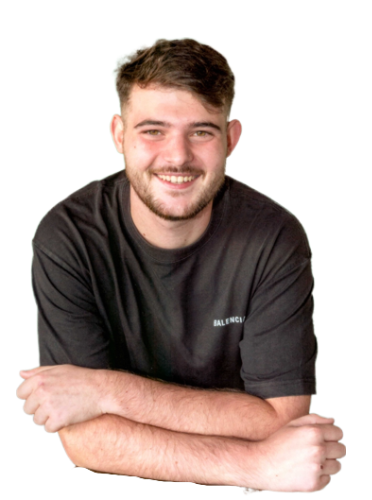
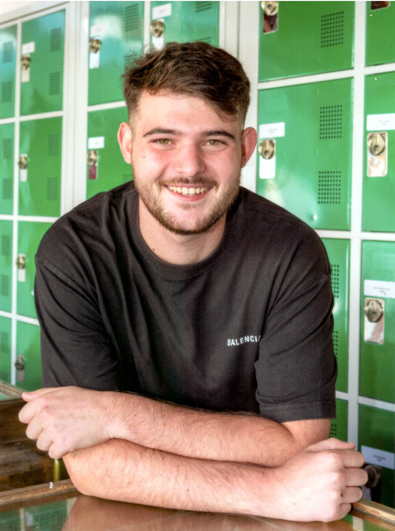
fix: all compenents

diff --git a/src/compenents/timeline/Timeline.vue b/src/compenents/timeline/Timeline.vue
@@ -1,52 +1,101 @@
 <template>
+  <section id="studies" class="dark:bg-slate-900 text-white">
+    <div
+        class="mx-auto max-w-screen-xl px-4 py-8 sm:py-12 sm:px-6 lg:py-16 lg:px-8"
+    >
+      <div class="mx-auto max-w-lg text-center">
+        <h2 class="text-3xl font-bold sm:text-4xl">Studies</h2>
 
-  <ol id="timeline" class="flex items-center justify-center px-6 sm:px-16 pb-40 pt-20 lg:pb-64 lg:pt-32 flex-col lg:flex-row bg-gray-900">
-    <li class="w-full lg:w-auto relative mb-6 lg:mb-0">
-      <div class="flex items-center">
-        <div class="z-10 flex items-center justify-center w-6 h-6 bg-blue-100 rounded-full ring-0 ring-white dark:bg-blue-900 lg:ring-8 dark:ring-gray-900 shrink-0">
+        <p class="mt-4 text-gray-300">
+          On this page, I provide a detailed overview of my educational journey,
+          highlighting the various stages and institutions I attended.
+        </p>
+      </div>
+
+      <div class="mt-8 grid grid-cols-1 gap-8 md:grid-cols-2 lg:grid-cols-3">
+        <div
+            v-for="school in schools "
+            :key="school.name">
+
+        <a
+            class="block rounded-xl border border-gray-800 p-8 shadow-xl transition hover:border-pink-500/10 hover:shadow-pink-500/10"
+            :href="school.url" target="_blank"
+        >
+          <div class="flex justify-end"
+            v-if="school.status !=='Finished' ">
+            <span class="inline-flex items-end gap-1.5 py-1.5 px-3 rounded-full text-xs font-medium bg-yellow-400 text-white">{{school.status}}</span>
+
+          </div>
+          <div class="flex justify-end"
+              v-else>
+            <span class="inline-flex items-end gap-1.5 py-1.5 px-3 rounded-full text-xs font-medium bg-green-400 text-white">{{school.status}}</span>
+          </div>
+
+
           <svg
-              class="w-3.5 h-3.5 text-blue-800 dark:text-blue-300"
-              fill="currentColor" xmlns="http://www.w3.org/2000/svg" viewBox="0 0 640 512">
-            <path d="M320 32c-8.1 0-16.1 1.4-23.7 4.1L15.8 137.4C6.3 140.9 0 149.9 0 160s6.3 19.1 15.8 22.6l57.9 20.9C57.3 229.3 48 259.8 48 291.9v28.1c0 28.4-10.8 57.7-22.3 80.8c-6.5 13-13.9 25.8-22.5 37.6C0 442.7-.9 448.3 .9 453.4s6 8.9 11.2 10.2l64 16c4.2 1.1 8.7 .3 12.4-2s6.3-6.1 7.1-10.4c8.6-42.8 4.3-81.2-2.1-108.7C90.3 344.3 86 329.8 80 316.5V291.9c0-30.2 10.2-58.7 27.9-81.5c12.9-15.5 29.6-28 49.2-35.7l157-61.7c8.2-3.2 17.5 .8 20.7 9s-.8 17.5-9 20.7l-157 61.7c-12.4 4.9-23.3 12.4-32.2 21.6l159.6 57.6c7.6 2.7 15.6 4.1 23.7 4.1s16.1-1.4 23.7-4.1L624.2 182.6c9.5-3.4 15.8-12.5 15.8-22.6s-6.3-19.1-15.8-22.6L343.7 36.1C336.1 33.4 328.1 32 320 32zM128 408c0 35.3 86 72 192 72s192-36.7 192-72L496.7 262.6 354.5 314c-11.1 4-22.8 6-34.5 6s-23.5-2-34.5-6L143.3 262.6 128 408z"/></svg>
-        </div>
-        <div class="hidden lg:flex w-full bg-gray-200 h-0.5 dark:bg-gray-700"></div>
-      </div>
-      <div class="mt-3 lg:pr-8">
-        <h3 class="text-lg font-semibold text-gray-900 dark:text-white">Flowbite Library v1.0.0</h3>
-        <time class="block mb-2 text-sm font-normal leading-none text-gray-400 dark:text-gray-500">Released on December 2, 2021</time>
-        <p class="text-base font-normal text-gray-500 dark:text-gray-400">Get started with dozens of web components and interactive elements.</p>
-      </div>
-    </li>
-    <li class="w-full lg:w-auto relative mb-6 lg:mb-0">
-      <div class="flex items-center">
-        <div class="z-10 flex items-center justify-center w-6 h-6 bg-blue-100 rounded-full ring-0 ring-white dark:bg-blue-900 lg:ring-8 dark:ring-gray-900 shrink-0">
-          <svg class="w-2.5 h-2.5 text-blue-800 dark:text-blue-300" aria-hidden="true" xmlns="http://www.w3.org/2000/svg" fill="currentColor" viewBox="0 0 20 20">
-            <path d="M20 4a2 2 0 0 0-2-2h-2V1a1 1 0 0 0-2 0v1h-3V1a1 1 0 0 0-2 0v1H6V1a1 1 0 0 0-2 0v1H2a2 2 0 0 0-2 2v2h20V4ZM0 18a2 2 0 0 0 2 2h16a2 2 0 0 0 2-2V8H0v10Zm5-8h10a1 1 0 0 1 0 2H5a1 1 0 0 1 0-2Z"/>
+              xmlns="http://www.w3.org/2000/svg"
+              class="h-10 w-10 text-pink-500"
+              fill="none"
+              viewBox="0 0 24 24"
+              stroke="currentColor"
+          >
+            <path d="M12 14l9-5-9-5-9 5 9 5z" />
+            <path
+                d="M12 14l6.16-3.422a12.083 12.083 0 01.665 6.479A11.952 11.952 0 0012 20.055a11.952 11.952 0 00-6.824-2.998 12.078 12.078 0 01.665-6.479L12 14z"
+            />
+            <path
+                stroke-linecap="round"
+                stroke-linejoin="round"
+                stroke-width="2"
+                d="M12 14l9-5-9-5-9 5 9 5zm0 0l6.16-3.422a12.083 12.083 0 01.665 6.479A11.952 11.952 0 0012 20.055a11.952 11.952 0 00-6.824-2.998 12.078 12.078 0 01.665-6.479L12 14zm-4 6v-7.5l4-2.222"
+            />
           </svg>
+
+          <h2 class="mt-4 text-xl font-bold text-white">{{school.name}}</h2>
+          <p class="mt-1 text-lg text-gray-300">
+            {{school.localisation}}
+
+          </p>
+
+          <p class="mt-1 text-sm text-gray-300">
+            {{school.date}}
+            {{school.description }}
+          </p>
+        </a>
         </div>
-        <div class="hidden lg:flex w-full bg-gray-200 h-0.5 dark:bg-gray-700"></div>
       </div>
-      <div class="mt-3 lg:pr-8">
-        <h3 class="text-lg font-semibold text-gray-900 dark:text-white">Flowbite Library v1.2.0</h3>
-        <time class="block mb-2 text-sm font-normal leading-none text-gray-400 dark:text-gray-500">Released on December 23, 2021</time>
-        <p class="text-base font-normal text-gray-500 dark:text-gray-400">Get started with dozens of web components and interactive elements.</p>
-      </div>
-    </li>
-    <li class="w-full lg:w-auto relative mb-6 lg:mb-0">
-      <div class="flex items-center">
-        <div class="z-10 flex items-center justify-center w-6 h-6 bg-blue-100 rounded-full ring-0 ring-white dark:bg-blue-900 lg:ring-8 dark:ring-gray-900 shrink-0">
-          <svg class="w-2.5 h-2.5 text-blue-800 dark:text-blue-300" aria-hidden="true" xmlns="http://www.w3.org/2000/svg" fill="currentColor" viewBox="0 0 20 20">
-            <path d="M20 4a2 2 0 0 0-2-2h-2V1a1 1 0 0 0-2 0v1h-3V1a1 1 0 0 0-2 0v1H6V1a1 1 0 0 0-2 0v1H2a2 2 0 0 0-2 2v2h20V4ZM0 18a2 2 0 0 0 2 2h16a2 2 0 0 0 2-2V8H0v10Zm5-8h10a1 1 0 0 1 0 2H5a1 1 0 0 1 0-2Z"/>
-          </svg>
-        </div>
-        <div class="hidden lg:flex w-full bg-gray-200 h-0.5 dark:bg-gray-700"></div>
-      </div>
-      <div class="mt-3 lg:pr-8">
-        <h3 class="text-lg font-semibold text-gray-900 dark:text-white">Flowbite Library v1.3.0</h3>
-        <time class="block mb-2 text-sm font-normal leading-none text-gray-400 dark:text-gray-500">Released on January 5, 2022</time>
-        <p class="text-base font-normal text-gray-500 dark:text-gray-400">Get started with dozens of web components and interactive elements.</p>
-      </div>
-    </li>
-  </ol>
+    </div>
+  </section>
 
 </template>
+
+<script lang="ts" setup>
+
+const schools = [
+
+  {
+    name: 'Epitech',
+    localisation:'Rennes',
+    date: "2023-2026",
+    description: "MSc Pro",
+    url:"https://www.epitech.eu/",
+    status:"In progess",
+  },
+  {
+    name: 'Lycée Saint Joseph',
+    localisation:'Hasparren',
+    date: "2021-2023",
+    description: "BTS-SNIR",
+    url:"https://st-joseph-hasparren.fr/",
+    status:"Finished",
+  },
+  {
+    name: 'Lycée André Malraux',
+    localisation:'Biarritz',
+    date: "2017-2020",
+    description: "BAC S",
+    url:"https://lycee-malraux-biarritz.fr/",
+    status:"Finished",
+  },
+    ]
+</script>

diff --git a/src/compenents/footer/Footer.vue b/src/compenents/footer/Footer.vue
@@ -9,24 +9,9 @@
         <!-- End Col -->
 
         <ul class="text-center">
-          <li class="inline-block relative pr-8 last:pr-0 last-of-type:before:hidden before:absolute before:top-1/2 before:right-3 before:-translate-y-1/2 before:content-['/'] before:text-gray-300 dark:before:text-gray-600">
-            <a class="inline-flex gap-x-2 text-sm text-gray-300 hover:text-gray-800 dark:text-gray-500 dark:hover:text-gray-200" href="#">
-              About
-            </a>
-          </li>
-          <li class="inline-block relative pr-8 last:pr-0 last-of-type:before:hidden before:absolute before:top-1/2 before:right-3 before:-translate-y-1/2 before:content-['/'] before:text-gray-300 dark:before:text-gray-600">
-            <a class="inline-flex gap-x-2 text-sm text-gray-300 hover:text-gray-800 dark:text-gray-500 dark:hover:text-gray-200" href="#">
-              Experience
-            </a>
-          </li>
-          <li class="inline-block relative pr-8 last:pr-0 last-of-type:before:hidden before:absolute before:top-1/2 before:right-3 before:-translate-y-1/2 before:content-['/'] before:text-gray-300 dark:before:text-gray-600">
-            <a class="inline-flex gap-x-2 text-sm text-gray-300 hover:text-gray-800 dark:text-gray-500 dark:hover:text-gray-200" href="#">
-              Project
-            </a>
-          </li>
-          <li class="inline-block relative pr-8 last:pr-0 last-of-type:before:hidden before:absolute before:top-1/2 before:right-3 before:-translate-y-1/2 before:content-['/'] before:text-gray-300 dark:before:text-gray-600">
-            <a class="inline-flex gap-x-2 text-sm text-gray-300 hover:text-gray-800 dark:text-gray-500 dark:hover:text-gray-200" href="#">
-              Contact
+          <li v-for="(navItem) in navigation" :key="navItem.name" class="inline-block relative pr-8 last:pr-0 last-of-type:before:hidden before:absolute before:top-1/2 before:right-3 before:-translate-y-1/2 before:content-['/'] before:text-gray-300 dark:before:text-gray-600">
+            <a @click="scrollTo(navItem.id)" class="cursor-pointer inline-flex gap-x-2 text-sm text-gray-300 hover:text-gray-800 dark:text-gray-500 dark:hover:text-gray-200">
+              {{ navItem.name }}
             </a>
           </li>
         </ul>
@@ -61,5 +46,21 @@
     </div>
   </footer>
 </template>
+
 <script setup lang="ts">
+const navigation = [
+  { name: 'About', id: "about", current: false },
+  { name: 'Studies', id: "studies", current: false },
+  { name: 'Projects', id: "projects", current: false },
+  { name: 'Contact', id: 'contact', current: false }
+]
+
+const scrollTo = (id) => {
+  const section = document.getElementById(id);
+  if (section) {
+    section.scrollIntoView({
+      behavior: "smooth"
+    });
+  }
+}
 </script>

diff --git a/src/compenents/navbar/NavBar.vue b/src/compenents/navbar/NavBar.vue
@@ -16,7 +16,7 @@
           </div>
           <div class="hidden sm:ml-6 sm:block">
             <div class="flex space-x-4">
-              <a v-for="item in navigation" :key="item.name" :href="item.href" :class="[item.current ? 'bg-gray-900 text-white' : 'text-gray-300 hover:bg-gray-700 hover:text-white', 'rounded-md px-3 py-2 text-sm font-medium']" :aria-current="item.current ? 'page' : undefined">{{ item.name }}</a>
+              <a v-for="item in navigation" :key="item.name" @click="scrollTo(item.id)" :href="item.href" :class="[item.current ? 'bg-gray-900 text-white' : 'text-gray-300 hover:bg-gray-700 hover:text-white', 'rounded-md px-3 py-2 text-sm font-medium']" :aria-current="item.current ? 'page' : undefined">{{ item.name }}</a>
             </div>
           </div>
         </div>
@@ -38,9 +38,20 @@ import { Bars3Icon, BellIcon, XMarkIcon } from '@heroicons/vue/24/outline'
 const navigation = [
 
 
-  { name: 'About', href: '#', current: false },
-  { name: 'Experience', href: '#', current: false },
-  { name: 'Project', href: '#', current: false },
-  { name: 'Contact', href: '#', current: false },
+  { name: 'About', id: "about", current: false },
+  { name: 'Studies', id:"studies",current: false },
+  { name: 'Projects', id:"projects", current: false },
+  { name: 'Contact', id:'contact',current: false },
+
+
 ]
+
+const scrollTo = (id) => {
+  const section = document.getElementById(id );
+  if (section) {
+    section.scrollIntoView({
+      behavior: "smooth"
+    });
+  }
+}
 </script>

diff --git a/src/compenents/sections/LandingSection.vue b/src/compenents/sections/LandingSection.vue
@@ -1,10 +1,11 @@
 <template>
-  <section
+  <section id="about"
       class="overflow-hidden bg-gray-800 flex justify-center items-center h-[75vh] px-6 sm:px-8"
   >
     <div
         class="max-w-3xl text-center ltr:sm:text-left rtl:sm:text-right"
     >
+      <img class="rounded-full object-cover object-center w-72 h-72 mx-auto " src="public/images/antoine-gourgue.png" alt="Image Description">
       <h2 class="text-2xl font-bold text-white md:text-5xl text-left mb-6">
         Hi 👋 I'm Antoine Gourgue
       </h2>
@@ -15,7 +16,7 @@
         together!
       </p>
 
-      <div class="flex items-center justify-start mt-8">
+      <div class="flex items-center justify-center mt-8">
         <button
             type="button"
             class="text-white bg-blue-700 hover:bg-blue-800 font-medium rounded-lg text-sm
@@ -38,7 +39,7 @@
 
 <script setup lang="ts">
 const scrollToBottom = () => {
-  const section = document.getElementById("timeline");
+  const section = document.getElementById("studies");
   if (section) {
     section.scrollIntoView({
       behavior: "smooth"

diff --git a/src/compenents/cards/Cards.vue b/src/compenents/cards/Cards.vue
@@ -1,6 +1,6 @@
 <template>
   <!-- Card Blog -->
-  <div class="max-w-[85rem] px-6 sm:px-16 pb-40 pt-20 lg:pb-64 lg:pt-32 mx-auto bg-gray-800">
+  <div id="projects" class="max-w-[85rem] px-6 sm:px-16 pb-40 pt-20 lg:pb-64 lg:pt-32 mx-auto bg-gray-800">
     <h2 class="text-2xl xs:text-3xl sm:text-4xl font-bold text-white text-left mb-8 flex justify-center items-center px-6 sm:px-16 pb-0 pt-20 lg:pb-0 lg:pt-32 mx-auto">Projects</h2>
     <!-- Grid -->
     <div class="grid sm:grid-cols-2 lg:grid-cols-3 gap-6">

diff --git a/src/views/HomeView.vue b/src/views/HomeView.vue
@@ -23,17 +23,4 @@ import Footer from "@/compenents/footer/Footer.vue";
 import Timeline from "@/compenents/timeline/Timeline.vue";
 import Contact from "@/compenents/contact/Contact.vue";
 import Cards from "@/compenents/cards/Cards.vue";
-
-/* Datas */
-const projects = [
-  {
-    name: 'project 1',
-  },
-  {
-    name: 'project 2'
-  }
-]
-
-
-
 </script>

diff --git a/src/compenents/contact/Contact.vue b/src/compenents/contact/Contact.vue
@@ -1,5 +1,5 @@
 <template>
-<div class="max-w-[85rem] px-4 py-10 sm:px-6 lg:px-8 lg:py-14 mx-auto">
+<div id="contact" class="max-w-[85rem] px-4 py-10 sm:px-6 lg:px-8 lg:py-14 mx-auto">
   <div class="max-w-xl mx-auto">
     <div class="text-center">
       <h1 class="text-3xl font-bold text-gray-800 sm:text-4xl dark:text-white">
